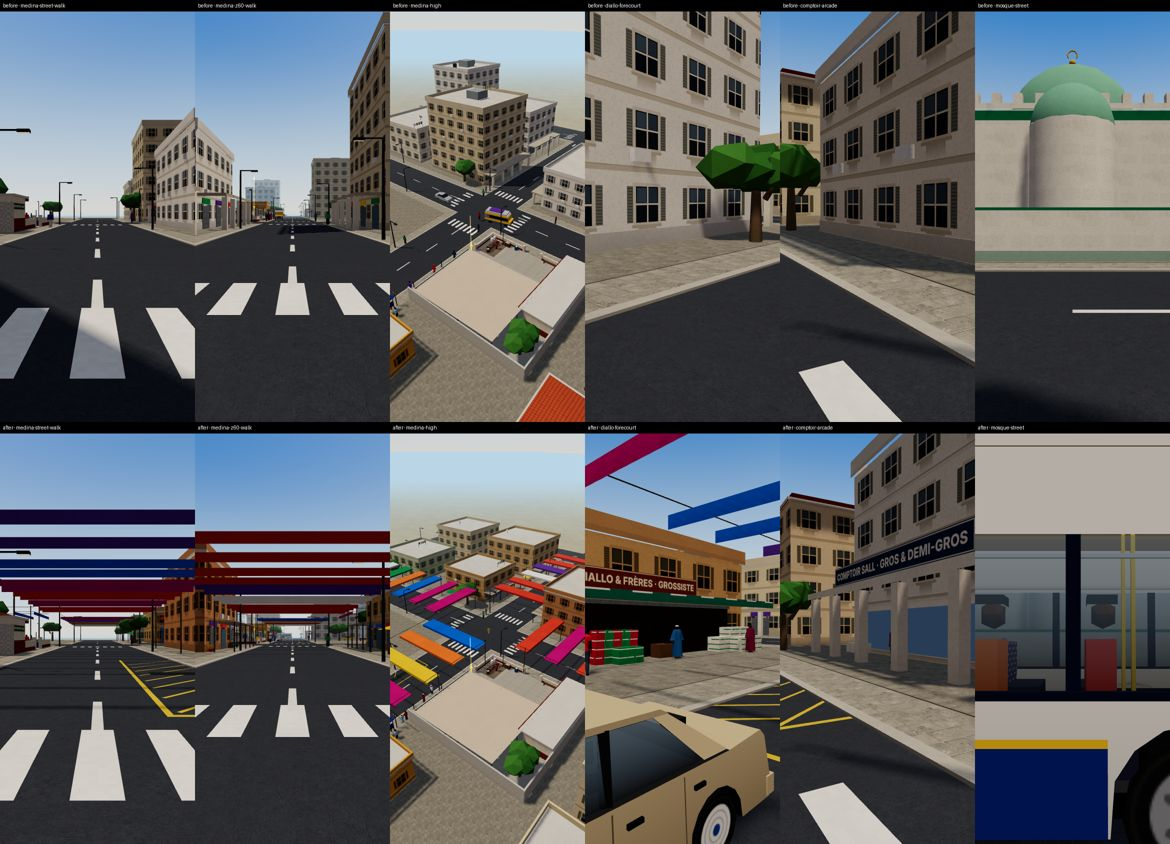
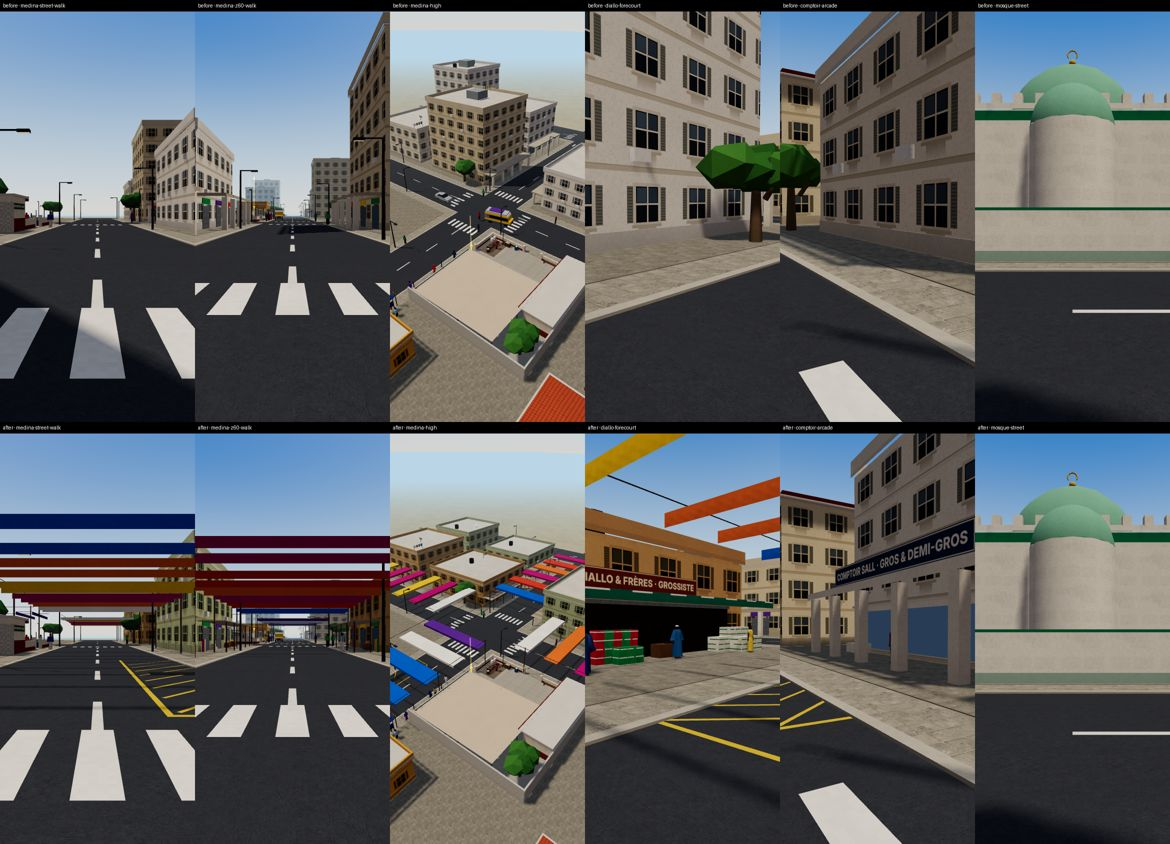
M2: Gate A evidence (golden path run 8, 33/33), the check's taps wait for the sheet to stand still
docs/districts/M2-EVIDENCE.md: what is implemented and missing, the recorded
golden path (run 8 on 835654e: 33 / 33 checks, no page errors, one session
of 23 min 40 s), tests (182 files, 2222 passed), save / payment / memory,
the Plateau outside the Médina checked identical to M1, performance before /
after at low and medium (every view far inside the budget; the heaviest 109
calls against 300), known issues, the preview. Proof in docs/districts/proof/m2.

Claude-Session: https://claude.ai/code/session_013Mkk5UjcGrbrWTj98fbebR

diff --git a/docs/districts/M2-EVIDENCE.md b/docs/districts/M2-EVIDENCE.md
@@ -4,7 +4,7 @@
 - **Gate B** is the owner's own iPhone playtest. It has **not happened**, and nothing here claims it.
 
 - **Branch:** `feature/ld-m2-plateau-20261026`. It is stacked on M1 (`feature/ld-m1-mermoz-20261025` @ `7dc9deb`), in draft PR zayd95/dakar-rek#70.
-- **Evidence run on:** `f4c5026` (golden path run 6 and the tests). The performance views ran on `1fab1bb`–`f4c5026`.
+- **Evidence run on:** `835654e` (golden path run 8, the tests and the performance views).
 
 The design is in [`M2-PLATEAU-MEDINA.md`](M2-PLATEAU-MEDINA.md). The commerce contract with Living Dakar 2.0 is [`CONTRACT.md`](CONTRACT.md) v5, rows 9–12, agreed by LD2.0.
 
@@ -57,7 +57,7 @@ The debug shortcuts are labelled in the script:
 - giving the player a Teranga, bought at its Pikine dealer with the wallet put back as it was;
 - the next city day.
 
-**Run 6** on `f4c5026`: **33 / 33 checks passed**, no page errors, one session of 21 min 31 s (the video). The log is [`proof/m2/golden-path-run6.log`](proof/m2/golden-path-run6.log), with a contact sheet in [`proof/m2/golden-path-run6.jpg`](proof/m2/golden-path-run6.jpg).
+**Run 8** on `835654e` (the game code pushed; the next commit only makes the check's own tap wait for the sheet to stand still): **33 / 33 checks passed**, no page errors, one session of 23 min 40 s (the video). The log is [`proof/m2/golden-path-run8.log`](proof/m2/golden-path-run8.log), with a contact sheet in [`proof/m2/golden-path-run8.jpg`](proof/m2/golden-path-run8.jpg).
 
 1. **On foot, with tea:**
    - The player walks up the Médina street to Diallo & Frères and talks to Oumar (first meeting).
@@ -88,11 +88,12 @@ The debug shortcuts are labelled in the script:
 6. **Every lot reconciles:** the trade's ledger lines sum to the saved total profit.
 7. **No page errors.**
 
-The earlier runs (1 to 5) found and fixed:
+The earlier runs (1 to 7) found and fixed:
 - a sale card whose « Vente » row showed the amount twice;
 - the card's result row, out of sight on a phone held upright, so the title now says it;
 - the check's own walking and boarding round a parked car;
-- the dealer's hub for the car set-up.
+- the dealer's hub for the car set-up;
+- a tap the check made while the sheet was still sliding up (run 7: the sale was offered, the tap missed it).
 
 ## Tests
 
@@ -109,7 +110,15 @@ The earlier runs (1 to 5) found and fixed:
   - its market streets keep their roads and pavements;
   - the loading area is kept clear, and nothing of it is on the mosque's block or frontage;
   - no parked car stands in any of the three bays, at every quality.
-- The full suite: **182 files, 2222 passed, 2 skipped** on `f4c5026` plus `tests/medina.test.ts`'s fourth test. `tsc` is clean.
+- The full suite: **182 files, 2222 passed, 2 skipped** on `835654e`. `tsc` is clean.
+
+## The rest of the Plateau is unchanged
+
+The Plateau was built on the M1 head (`7dc9deb`) and on `835654e`, and every collider and person was compared outside the Médina's four blocks, its two market streets and the Comptoir's lot. Both lite and full detail are **identical** (172 and 178 colliders). This holds because:
+- each trade lot still draws its ordinary building from the hub's random stream (its geometry dropped, its boxes ghosts while the street dressing is placed);
+- the depot draws from its own stream;
+- a lower Médina building draws the numbers of the floors it lost;
+- the Médina's goods and market streets are set out after the hub's own trees, palms and stalls.
 
 ## Save, payment and memory
 
@@ -130,7 +139,7 @@ The baseline is the repo's own draw-call budget (`scripts/check-perf-evening.mjs
 
 **Method:**
 - `scripts/m2-views.mjs` puts fixed cameras on the same Plateau places.
-- It runs on the M1 head (`7dc9deb`, before M2) and on this branch, the Médina and the trade (`1fab1bb` to `f4c5026`; the commits between change only the sale card's text and the check script, neither in these views).
+- It runs on the M1 head (`7dc9deb`, before M2) and on this branch (`835654e`, the Médina and the trade).
 - Both run at 390 × 844 in SwiftShader.
 - Draw calls and triangles transfer to a phone. Frame times do not, and no iPhone was measured.
 
@@ -138,36 +147,37 @@ The baseline is the repo's own draw-call budget (`scripts/check-perf-evening.mjs
 
 | View | Draw calls before → after | Triangles before → after | Frame median ms before → after (SwiftShader, not a phone) |
 |---|---|---|---|
-| medina-street-walk | 62 → 65 | 60,280 → 67,486 | 100 → 116.6 |
-| medina-z60-walk | 108 → 102 | 88,744 → 89,274 | 150 → 150 |
-| medina-high | 67 → 71 | 67,546 → 74,554 | 149.9 → 150 |
-| diallo-forecourt | 58 → 82 | 57,810 → 82,800 | 133.2 → 133.4 |
-| comptoir-arcade | 43 → 51 | 55,916 → 66,152 | 133.3 → 133.3 |
-| mosque-street | 73 → 76 | 72,260 → 79,872 | 133.3 → 150 |
-| plateau-office-street | 60 → 69 | 74,104 → 86,988 | 100 → 116.7 |
+| medina-street-walk | 62 → 65 | 60,280 → 67,202 | 100 → 100 |
+| medina-z60-walk | 108 → 104 | 88,744 → 88,652 | 150 → 150 |
+| medina-high | 67 → 71 | 67,546 → 74,510 | 149.9 → 150 |
+| diallo-forecourt | 58 → 87 | 57,810 → 86,820 | 133.2 → 150 |
+| comptoir-arcade | 43 → 50 | 55,916 → 65,234 | 133.3 → 116.7 |
+| mosque-street | 73 → 86 | 72,260 → 85,492 | 133.3 → 150 |
+| plateau-office-street | 60 → 66 | 74,104 → 83,500 | 100 → 116.7 |
 
 **Medium quality**
 
 | View | Draw calls before → after | Triangles before → after | Frame median ms before → after (SwiftShader, not a phone) |
 |---|---|---|---|
-| medina-street-walk | 64 → 69 | 75,912 → 82,448 | 216.6 → 233.3 |
-| medina-z60-walk | 106 → 110 | 109,472 → 114,276 | 266.7 → 250 |
-| medina-high | 76 → 80 | 94,350 → 99,028 | 300 → 316.6 |
-| diallo-forecourt | 58 → 82 | 73,750 → 96,076 | 249.9 → 283.3 |
-| comptoir-arcade | 45 → 51 | 74,206 → 81,118 | 233.4 → 283.3 |
-| mosque-street | 77 → 92 | 96,862 → 107,812 | 266.7 → 316.8 |
-| plateau-office-street | 66 → 72 | 106,112 → 111,962 | 250 → 250 |
+| medina-street-walk | 64 → 66 | 75,912 → 82,154 | 216.6 → 233.3 |
+| medina-z60-walk | 106 → 109 | 109,472 → 115,634 | 266.7 → 266.7 |
+| medina-high | 76 → 79 | 94,350 → 100,460 | 300 → 316.6 |
+| diallo-forecourt | 58 → 86 | 73,750 → 97,868 | 249.9 → 283.3 |
+| comptoir-arcade | 45 → 52 | 74,206 → 81,572 | 233.4 → 250 |
+| mosque-street | 77 → 79 | 96,862 → 102,982 | 266.7 → 283.3 |
+| plateau-office-street | 66 → 78 | 106,112 → 114,940 | 250 → 266.7 |
 
 **Reading:**
-- Every view stays far inside the budget. The heaviest is 110 calls, on the market street at z = 60 at medium quality, against 300.
-- The biggest rise is at Diallo's forecourt: +24 calls (58 → 82) and +25 % triangles.
-  - That view now has the depot, its goods, its sign, Oumar Diallo, two porters and the shop boards, where before it had a plain block.
+- Every view stays far inside the budget. The heaviest is 109 calls, on the market street at z = 60 at medium quality, against 300.
+- **Live traffic and pedestrians are in every view and vary from run to run.** The office street at x = 60 shows the size of that noise: its layout is proven identical to before (the next section), yet its calls moved by +6 at low and +12 at medium. Read the other rows with that margin.
+- The biggest rise is at Diallo's forecourt: +29 / +28 calls (58 → 87 / 86) and about +40 % triangles.
+  - That view now has the depot, its stacked goods, its sign, Oumar Diallo, two porters and the Médina's shop boards and goods, where before it had a plain block.
   - The calls have not been broken down per object.
-- The market streets themselves cost 3 to 5 calls.
-  - The cloths are in the shared batches.
-  - Each painted shop board is its own call; the Médina has 10 at most.
-- **The mosque view (+15 at medium) is not like for like:** a passing bus fills the "after" frame. The Médina adds nothing on the mosque's block (`tests/medina.test.ts`).
-- The frame times (SwiftShader, CPU) move by about one frame step either way. They are not a phone's.
+- The Médina's market streets cost +3 to −4 calls, within the noise.
+  - The cloths, poles and goods are in the shared batches.
+  - Each painted shop board is its own call; there are 10 at most.
+- **The mosque street** (+13 at low, +2 at medium) is within the noise. The Médina adds nothing on the mosque's block (`tests/medina.test.ts`).
+- The frame times (SwiftShader, CPU) move by about one frame step. They are not a phone's.
 
 Before / after images at medium quality: [`proof/m2/before-after-medina-medium.jpg`](proof/m2/before-after-medina-medium.jpg). The numbers are in `proof/m2/perf-*.json`.
 
